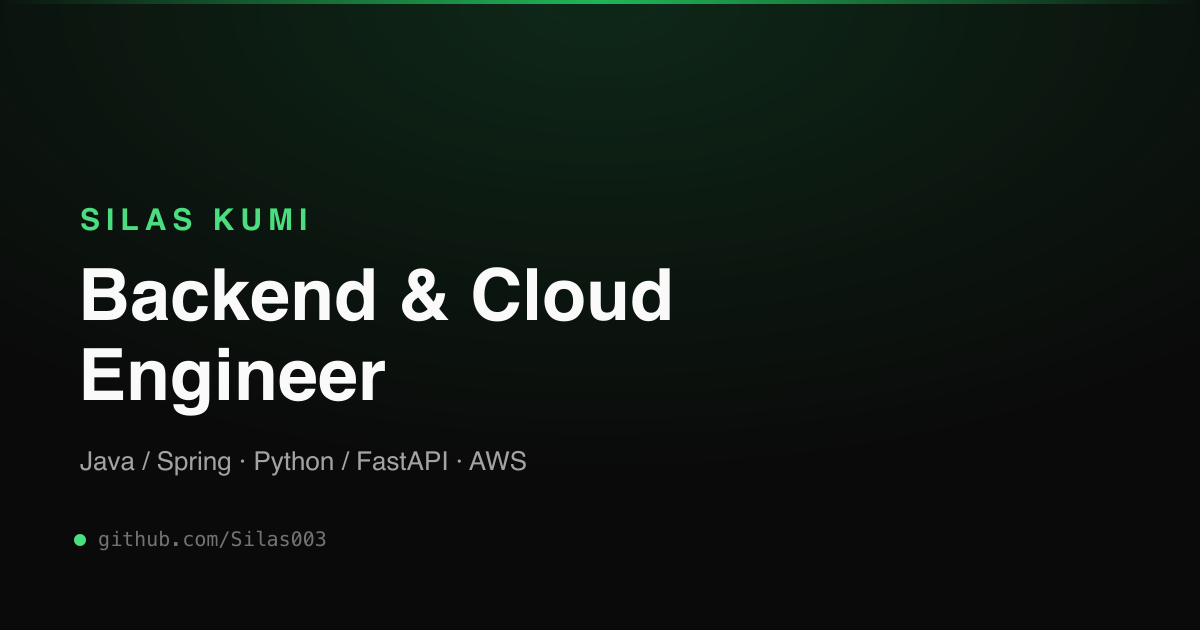
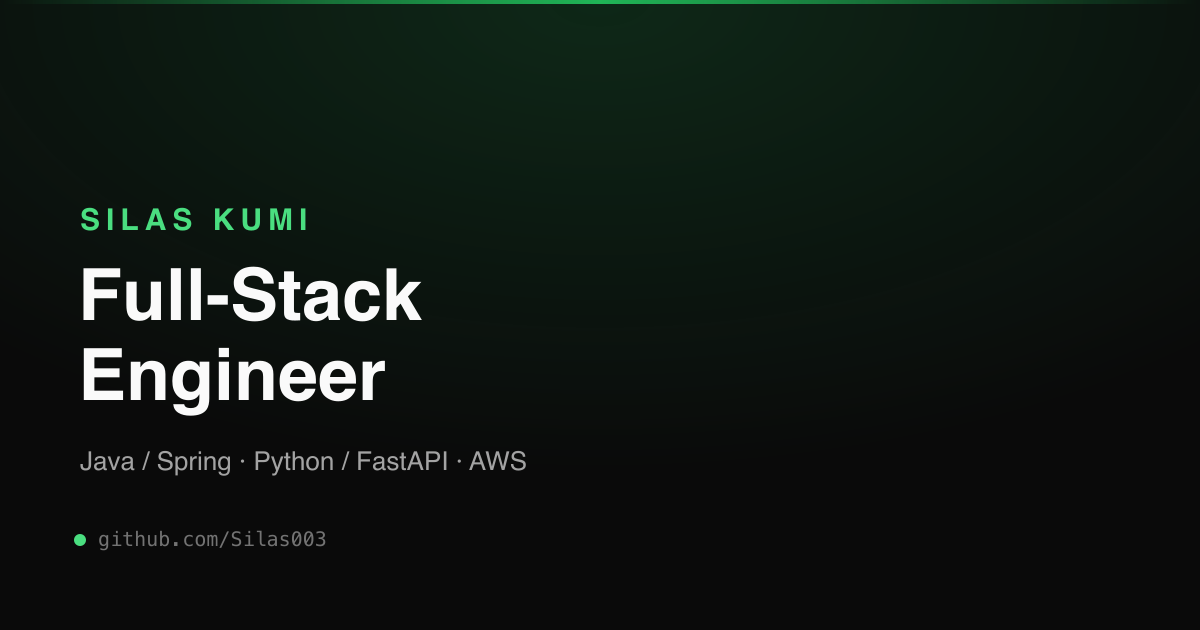
Polish nav UX and align role copy across the page
- Nav: add scroll-spy active-section highlighting (useActiveSection,
  IntersectionObserver-based), declutter CTAs so Resume is a plain
  link and Email me is the one filled pill, add a divider between
  links and actions, and make the mobile dropdown close on Escape
  or an outside tap with a fade-in entrance.
- Rewrite the About summary with the user-provided copy and drop the
  now-mismatched GTA V badge since it no longer names a specific game.
- Retitle the role from "Backend & Cloud Engineer" to "Full-Stack
  Engineer" everywhere it appears: hero badge, page title, meta
  description, OG/Twitter tags, and JSON-LD jobTitle. Regenerate the
  OG image to match.
- Fix hero-to-About spacing: swap the fixed min-h-[88vh] hero for
  content-driven padding now that the CTAs moved into the nav, which
  had left a dead gap below the tagline.

Changed region(s): [[0.0617, 0.4222, 0.5858, 0.5127]]

diff --git a/Components/Nav.js b/Components/Nav.js
@@ -1,19 +1,33 @@
-import { useState } from 'react'
+import { useEffect, useState } from 'react'
 import Image from 'next/image'
 import { Sun, Moon, List, X, FileText, EnvelopeSimple } from '@phosphor-icons/react'
 import { useTheme } from '../hooks/useTheme'
+import { useActiveSection } from '../hooks/useActiveSection'
 
 const links = [
-  { href: '#about', label: 'About' },
-  { href: '#stack', label: 'Stack' },
-  { href: '#projects', label: 'Projects' },
+  { id: 'about', href: '#about', label: 'About' },
+  { id: 'stack', href: '#stack', label: 'Stack' },
+  { id: 'projects', href: '#projects', label: 'Projects' },
 ]
+
+const sectionIds = links.map((link) => link.id)
 
 const Nav = () => {
   const { theme, toggle } = useTheme()
   const [menuOpen, setMenuOpen] = useState(false)
+  const active = useActiveSection(sectionIds)
 
   const closeMenu = () => setMenuOpen(false)
+
+  // Escape closes the mobile menu from anywhere, not just a tap outside it.
+  useEffect(() => {
+    if (!menuOpen) return
+    const onKeyDown = (event) => {
+      if (event.key === 'Escape') setMenuOpen(false)
+    }
+    window.addEventListener('keydown', onKeyDown)
+    return () => window.removeEventListener('keydown', onKeyDown)
+  }, [menuOpen])
 
   return (
     <nav className="sticky top-0 z-50 w-full border-b border-neutral-200/60 bg-white/90 backdrop-blur-md dark:border-neutral-800/60 dark:bg-[#0a0a0a]/80">
@@ -26,31 +40,38 @@ const Nav = () => {
           </span>
         </a>
 
-        {/* Desktop links + actions, the resume/contact CTAs live here so
-            they stay reachable through the whole scroll, not just the hero */}
+        {/* Desktop links + actions */}
         <div className="hidden sm:flex items-center gap-1">
           {links.map((link) => (
             <a
               key={link.href}
               href={link.href}
-              className="text-neutral-600 hover:text-neutral-900 text-sm font-medium px-3 py-1.5 rounded-lg hover:bg-neutral-100 transition-all duration-200 dark:text-neutral-400 dark:hover:text-white dark:hover:bg-white/5"
+              className={`text-sm font-medium px-3 py-1.5 rounded-lg transition-all duration-200 ${
+                active === link.id
+                  ? 'text-green-600 dark:text-green-400'
+                  : 'text-neutral-600 hover:text-neutral-900 hover:bg-neutral-100 dark:text-neutral-400 dark:hover:text-white dark:hover:bg-white/5'
+              }`}
             >
               {link.label}
             </a>
           ))}
 
+          <span className="w-px h-4 bg-neutral-200 mx-2 dark:bg-neutral-800" />
+
+          {/* Resume stays a plain link, matching the weight of the section
+              links; Email me is the one filled action in the bar. */}
           <a
             href="https://drive.google.com/file/d/1-QoREEMwpg4-XBfZSb8GhkGmeRep4GYi/view?usp=sharing"
             target="_blank"
             rel="noreferrer"
-            className="ml-3 inline-flex items-center gap-1.5 border border-neutral-300 hover:border-neutral-400 text-neutral-700 hover:text-neutral-900 text-xs font-semibold px-3 py-1.5 rounded-full transition-all duration-200 active:scale-[0.98] dark:border-neutral-700 dark:hover:border-neutral-600 dark:text-neutral-300 dark:hover:text-white"
+            className="inline-flex items-center gap-1.5 text-neutral-600 hover:text-neutral-900 text-sm font-medium px-3 py-1.5 rounded-lg hover:bg-neutral-100 transition-all duration-200 dark:text-neutral-400 dark:hover:text-white dark:hover:bg-white/5"
           >
-            <FileText size={13} weight="bold" />
+            <FileText size={14} weight="bold" />
             Resume
           </a>
           <a
             href="mailto:silaskumi4@gmail.com"
-            className="inline-flex items-center gap-1.5 bg-green-600 hover:bg-green-700 text-white text-xs font-semibold px-3 py-1.5 rounded-full transition-all duration-200 active:scale-[0.98] dark:bg-green-400 dark:hover:bg-green-300 dark:text-black"
+            className="ml-1 inline-flex items-center gap-1.5 bg-green-600 hover:bg-green-700 text-white text-xs font-semibold px-3.5 py-1.5 rounded-full transition-all duration-200 active:scale-[0.98] dark:bg-green-400 dark:hover:bg-green-300 dark:text-black"
           >
             <EnvelopeSimple size={13} weight="bold" />
             Email me
@@ -60,7 +81,7 @@ const Nav = () => {
             onClick={toggle}
             aria-label="Toggle theme"
             suppressHydrationWarning
-            className="ml-1 p-2 rounded-lg text-neutral-500 hover:text-neutral-900 hover:bg-neutral-100 transition-all duration-200 dark:text-neutral-400 dark:hover:text-white dark:hover:bg-white/5"
+            className="ml-2 p-2 rounded-lg text-neutral-500 hover:text-neutral-900 hover:bg-neutral-100 transition-all duration-200 dark:text-neutral-400 dark:hover:text-white dark:hover:bg-white/5"
           >
             {theme === 'dark' ? <Sun size={17} weight="bold" /> : <Moon size={17} weight="bold" />}
           </button>
@@ -87,43 +108,51 @@ const Nav = () => {
         </div>
       </div>
 
-      {/* Mobile dropdown, absolutely positioned so it overlays content, not pushes it */}
       {menuOpen && (
-        <div className="sm:hidden absolute top-full left-0 right-0 border-t border-neutral-200/60 bg-white/95 backdrop-blur-md shadow-lg dark:border-neutral-800/60 dark:bg-[#0a0a0a]/95">
-          <div className="max-w-5xl mx-auto px-4 py-4 flex flex-col gap-1">
-            {links.map((link) => (
-              <a
-                key={link.href}
-                href={link.href}
-                onClick={closeMenu}
-                className="text-neutral-700 hover:text-neutral-900 text-sm font-medium px-3 py-2.5 rounded-lg hover:bg-neutral-100 transition-all duration-200 dark:text-neutral-300 dark:hover:text-white dark:hover:bg-white/5"
-              >
-                {link.label}
-              </a>
-            ))}
+        <>
+          {/* Transparent tap-away target: closes the menu without dimming the page */}
+          <div className="sm:hidden fixed inset-0" onClick={closeMenu} aria-hidden="true" />
 
-            <div className="flex items-center gap-2 mt-2 px-3">
-              <a
-                href="https://drive.google.com/file/d/1-QoREEMwpg4-XBfZSb8GhkGmeRep4GYi/view?usp=sharing"
-                target="_blank"
-                rel="noreferrer"
-                onClick={closeMenu}
-                className="flex-1 inline-flex items-center justify-center gap-1.5 border border-neutral-300 text-neutral-700 text-sm font-semibold px-3 py-2 rounded-full dark:border-neutral-700 dark:text-neutral-300"
-              >
-                <FileText size={14} weight="bold" />
-                Resume
-              </a>
-              <a
-                href="mailto:silaskumi4@gmail.com"
-                onClick={closeMenu}
-                className="flex-1 inline-flex items-center justify-center gap-1.5 bg-green-600 text-white text-sm font-semibold px-3 py-2 rounded-full dark:bg-green-400 dark:text-black"
-              >
-                <EnvelopeSimple size={14} weight="bold" />
-                Email me
-              </a>
+          <div className="animate-fade-in-up sm:hidden absolute top-full left-0 right-0 border-t border-neutral-200/60 bg-white/95 backdrop-blur-md shadow-lg dark:border-neutral-800/60 dark:bg-[#0a0a0a]/95">
+            <div className="max-w-5xl mx-auto px-4 py-4 flex flex-col gap-1">
+              {links.map((link) => (
+                <a
+                  key={link.href}
+                  href={link.href}
+                  onClick={closeMenu}
+                  className={`text-sm font-medium px-3 py-2.5 rounded-lg transition-all duration-200 ${
+                    active === link.id
+                      ? 'text-green-600 dark:text-green-400'
+                      : 'text-neutral-700 hover:text-neutral-900 hover:bg-neutral-100 dark:text-neutral-300 dark:hover:text-white dark:hover:bg-white/5'
+                  }`}
+                >
+                  {link.label}
+                </a>
+              ))}
+
+              <div className="flex items-center gap-2 mt-3 pt-3 border-t border-neutral-200/60 dark:border-neutral-800/60">
+                <a
+                  href="https://drive.google.com/file/d/1-QoREEMwpg4-XBfZSb8GhkGmeRep4GYi/view?usp=sharing"
+                  target="_blank"
+                  rel="noreferrer"
+                  onClick={closeMenu}
+                  className="flex-1 inline-flex items-center justify-center gap-1.5 border border-neutral-300 text-neutral-700 text-sm font-semibold px-3 py-2 rounded-full dark:border-neutral-700 dark:text-neutral-300"
+                >
+                  <FileText size={14} weight="bold" />
+                  Resume
+                </a>
+                <a
+                  href="mailto:silaskumi4@gmail.com"
+                  onClick={closeMenu}
+                  className="flex-1 inline-flex items-center justify-center gap-1.5 bg-green-600 text-white text-sm font-semibold px-3 py-2 rounded-full dark:bg-green-400 dark:text-black"
+                >
+                  <EnvelopeSimple size={14} weight="bold" />
+                  Email me
+                </a>
+              </div>
             </div>
           </div>
-        </div>
+        </>
       )}
     </nav>
   )

diff --git a/Components/Index.js b/Components/Index.js
@@ -1,4 +1,3 @@
-import { GameController } from '@phosphor-icons/react'
 import Nav from './Nav'
 import Skills from './Skills'
 import Certifications from './Certifications'
@@ -21,7 +20,7 @@ const Index = () => {
 
       <main id="main-content" className="flex-1 flex flex-col">
         {/* HERO */}
-        <header className="relative flex flex-col items-center justify-center min-h-[88vh] text-center overflow-hidden px-4">
+        <header className="relative flex flex-col items-center justify-center text-center overflow-hidden px-4 pt-20 pb-16 md:pt-24 md:pb-20">
           {/* Faded technical grid + ambient glow, tied to the brand accent only */}
           <div className="absolute inset-0 -z-10 pointer-events-none overflow-hidden">
             <div className="absolute inset-0 bg-dot-grid text-neutral-300/60 dark:text-neutral-800/50" />
@@ -30,7 +29,7 @@ const Index = () => {
           </div>
 
           <p className="animate-fade-in mb-8 font-mono text-xs text-green-600 tracking-[0.15em] dark:text-green-400">
-            [ backend &amp; cloud engineer ]
+            [ full-stack engineer ]
           </p>
 
           <h1
@@ -56,16 +55,10 @@ const Index = () => {
           <Reveal>
             <SectionHeading>About</SectionHeading>
             <p className="text-neutral-600 text-base md:text-lg leading-relaxed max-w-2xl dark:text-neutral-400">
-              I build the systems that run quietly underneath everything else: the queue that makes sure a
-              job never gets lost, the pipeline that ships code without drama, the infrastructure that
-              scales without anyone noticing it&apos;s there. Most of what I build starts small, a side
-              project born from a real problem, before it earns the discipline to run in production. Off
-              the keyboard, I&apos;m usually deep in{' '}
-              <span className="inline-flex items-center gap-1 align-middle">
-                <GameController size={13} weight="fill" className="text-red-500 dark:text-red-400" />
-                <span className="text-red-600 font-semibold dark:text-red-400">GTA V Online</span>
-              </span>
-              {' '}or building something in 3D, just for the joy of making things.
+              Full-stack engineer who&apos;s drawn to the bigger picture, architecture, scalability, how
+              all the pieces fit together, as much as the code itself. I like systems that are built to
+              last, not just to work today. Outside of engineering, I&apos;m usually deep into a game,
+              shaping something in 3D, or talking tech and intentionality with my church&apos;s piano.
             </p>
           </Reveal>
         </section>

diff --git a/pages/index.js b/pages/index.js
@@ -2,8 +2,8 @@ import Head from 'next/head'
 import Index from "@/Components/Index"
 
 const siteUrl = process.env.NEXT_PUBLIC_SITE_URL || 'https://skumi.vercel.app'
-const title = 'Silas Kumi | Backend & Cloud Engineer'
-const description = 'Backend & Cloud Engineer building distributed systems and cloud infrastructure with Java/Spring, Python/FastAPI, and AWS.'
+const title = 'Silas Kumi | Full-Stack Engineer'
+const description = 'Full-stack engineer building scalable systems and cloud infrastructure with Java/Spring, Python/FastAPI, and AWS.'
 
 export default function Home() {
   return (
@@ -40,7 +40,7 @@ export default function Home() {
               '@context': 'https://schema.org',
               '@type': 'Person',
               name: 'Silas Kumi',
-              jobTitle: 'Backend & Cloud Engineer',
+              jobTitle: 'Full-Stack Engineer',
               url: siteUrl,
               sameAs: [
                 'https://github.com/Silas003',

diff --git a/hooks/useActiveSection.js b/hooks/useActiveSection.js
@@ -1,0 +1,27 @@
+import { useEffect, useState } from 'react'
+
+// Tracks which section id is currently in view so the nav can highlight it.
+// IntersectionObserver only, never a scroll listener.
+export function useActiveSection(ids) {
+  const [active, setActive] = useState(null)
+
+  useEffect(() => {
+    const elements = ids.map((id) => document.getElementById(id)).filter(Boolean)
+    if (!elements.length) return
+
+    const observer = new IntersectionObserver(
+      (entries) => {
+        const visible = entries
+          .filter((entry) => entry.isIntersecting)
+          .sort((a, b) => b.intersectionRatio - a.intersectionRatio)
+        if (visible[0]) setActive(visible[0].target.id)
+      },
+      { rootMargin: '-45% 0px -45% 0px', threshold: 0 }
+    )
+
+    elements.forEach((el) => observer.observe(el))
+    return () => observer.disconnect()
+  }, [ids])
+
+  return active
+}
